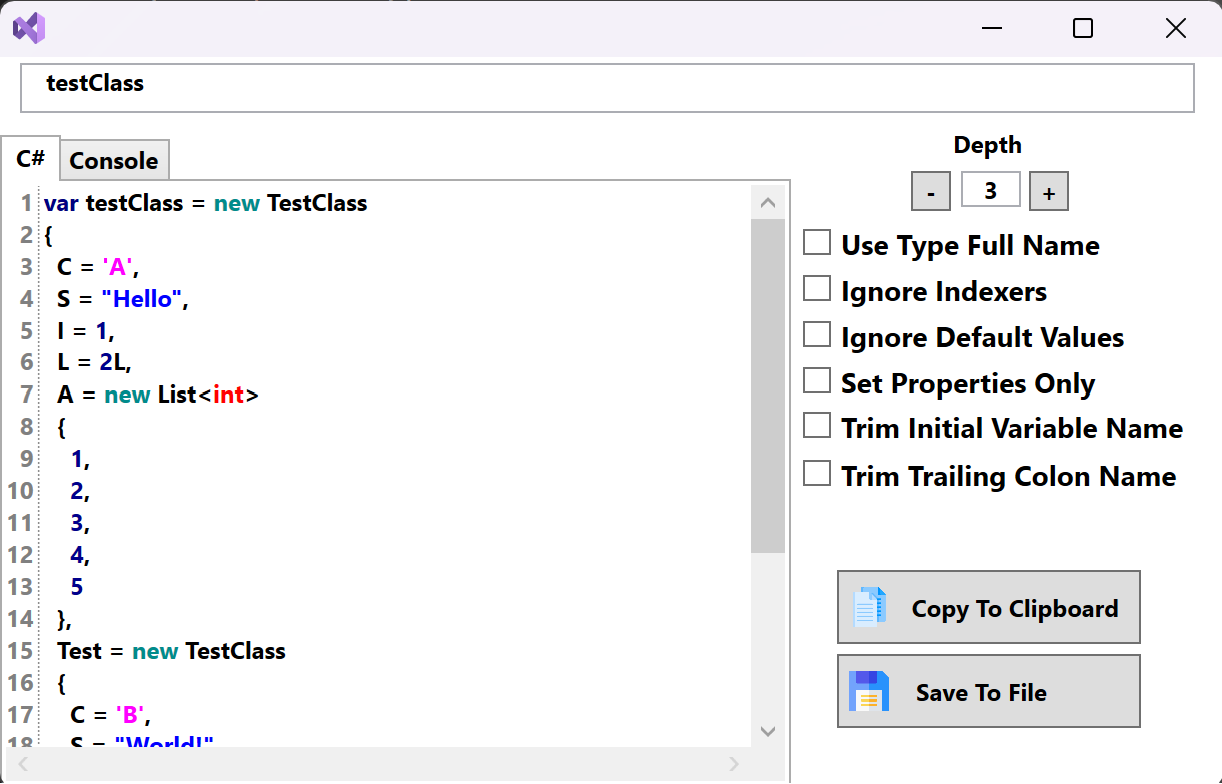
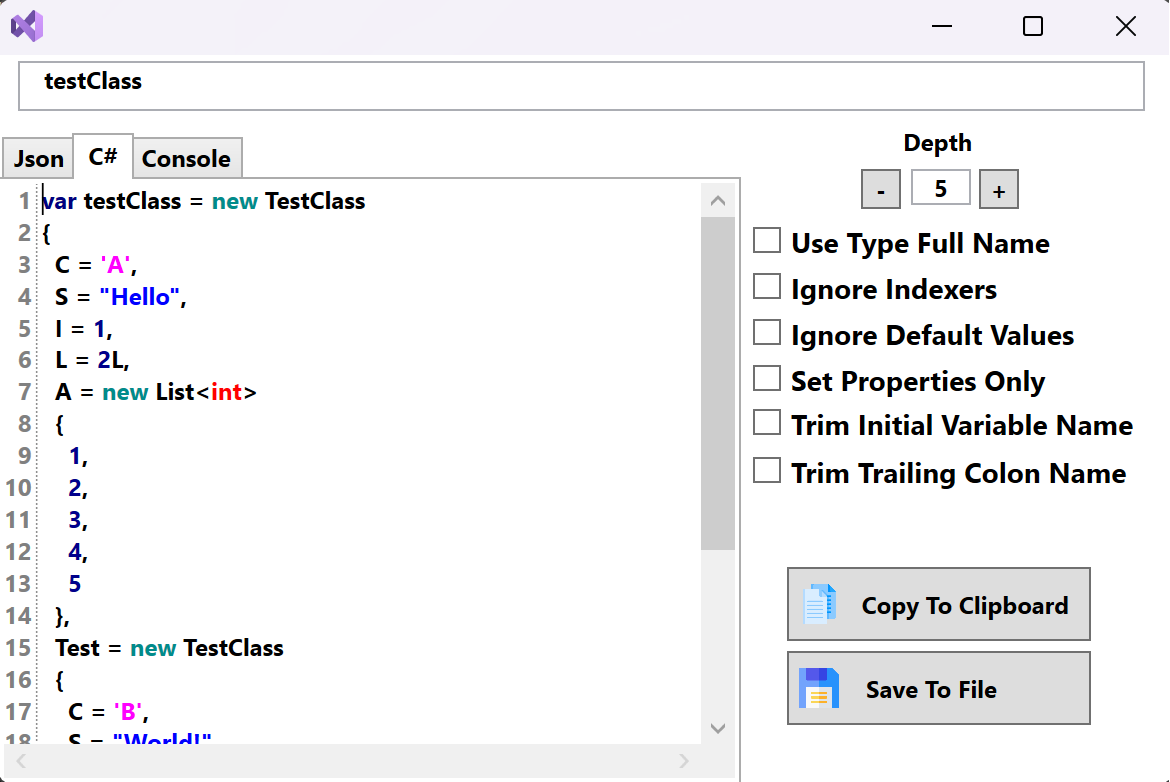
Small fixes

diff --git a/src/Dialogs/ExportDialog.xaml b/src/Dialogs/ExportDialog.xaml
@@ -68,12 +68,12 @@
             </DockPanel>
         </Button>
         <TextBox x:Name="CodeObject" Margin="10,3,14,0" Padding="10, 0, 0, 0" TextWrapping="Wrap" Text="a[0]" VerticalAlignment="Top" Height="25" KeyUp="RunDumpResult_KeyUp" FontWeight="Bold" Grid.ColumnSpan="2"/>
-        <CheckBox x:Name="UseTypeFullName" Content="Use Type Full Name" Margin="0,85,23,0" VerticalAlignment="Top" FontSize="14" HorizontalAlignment="Right" Width="188" FontWeight="Bold" IsChecked="False" Click="checkbox_Checked" Grid.ColumnSpan="2" />
-        <CheckBox x:Name="IgnoreIndexers" Content="Ignore Indexers" Margin="0,108,23,0" VerticalAlignment="Top" FontSize="14" HorizontalAlignment="Right" Width="188" FontWeight="Bold" IsChecked="False" Click="checkbox_Checked" Grid.ColumnSpan="2" />
-        <CheckBox x:Name="IgnoreDefaultValues" Content="Ignore Default Values" Margin="0,131,23,0" VerticalAlignment="Top" FontSize="14" HorizontalAlignment="Right" Width="188" FontWeight="Bold" IsChecked="False" Click="checkbox_Checked" Grid.ColumnSpan="2" />
-        <CheckBox x:Name="SetPropertiesOnly" Content="Set Properties Only" Margin="0,154,23,0" VerticalAlignment="Top" FontSize="14" HorizontalAlignment="Right" Width="188" FontWeight="Bold" IsChecked="False" Click="checkbox_Checked" Grid.ColumnSpan="2" />
-        <CheckBox x:Name="TrimInitialVariableName" Content="Trim Initial Variable Name" Margin="0,176,7,0" VerticalAlignment="Top" FontSize="14" FontWeight="Bold" IsChecked="False" Click="checkbox_Checked" HorizontalAlignment="Right" Width="204" Grid.ColumnSpan="2" />
-        <CheckBox x:Name="TrimTrailingColonName" Content="Trim Trailing Colon Name" Margin="0,200,7,0" VerticalAlignment="Top" FontSize="14" HorizontalAlignment="Right" Width="204" FontWeight="Bold" IsChecked="False" Click="checkbox_Checked" Grid.ColumnSpan="2" />
+        <CheckBox x:Name="UseTypeFullName" Content="Use Type Full Name" Margin="0,85,23,0" VerticalAlignment="Top" FontSize="14" HorizontalAlignment="Right" Width="188" FontWeight="Bold" IsChecked="False" Click="Checkbox_Checked" Grid.ColumnSpan="2" />
+        <CheckBox x:Name="IgnoreIndexers" Content="Ignore Indexers" Margin="0,108,23,0" VerticalAlignment="Top" FontSize="14" HorizontalAlignment="Right" Width="188" FontWeight="Bold" IsChecked="False" Click="Checkbox_Checked" Grid.ColumnSpan="2" />
+        <CheckBox x:Name="IgnoreDefaultValues" Content="Ignore Default Values" Margin="0,131,23,0" VerticalAlignment="Top" FontSize="14" HorizontalAlignment="Right" Width="188" FontWeight="Bold" IsChecked="False" Click="Checkbox_Checked" Grid.ColumnSpan="2" />
+        <CheckBox x:Name="SetPropertiesOnly" Content="Set Properties Only" Margin="0,154,23,0" VerticalAlignment="Top" FontSize="14" HorizontalAlignment="Right" Width="188" FontWeight="Bold" IsChecked="False" Click="Checkbox_Checked" Grid.ColumnSpan="2" />
+        <CheckBox x:Name="TrimInitialVariableName" Content="Trim Initial Variable Name" Margin="0,176,7,0" VerticalAlignment="Top" FontSize="14" FontWeight="Bold" IsChecked="False" Click="Checkbox_Checked" HorizontalAlignment="Right" Width="204" Grid.ColumnSpan="2" />
+        <CheckBox x:Name="TrimTrailingColonName" Content="Trim Trailing Colon Name" Margin="0,200,7,0" VerticalAlignment="Top" FontSize="14" HorizontalAlignment="Right" Width="204" FontWeight="Bold" IsChecked="False" Click="Checkbox_Checked" Grid.ColumnSpan="2" />
 
     </Grid>
 </Window>

diff --git a/src/Dialogs/ExportDialog.xaml.cs b/src/Dialogs/ExportDialog.xaml.cs
@@ -84,7 +84,7 @@ namespace DebugHelper.Dialogs
 
         private string GetExpressionJsonString()
         {
-            return $"System.Text.Json.JsonSerializer.Serialize({_objectName}, new System.Text.Json.JsonSerializerOptions() {{MaxDepth = {_maxDepthValue}, WriteIndented = true}})";
+            return $"System.Text.Json.JsonSerializer.Serialize({_objectName}, new System.Text.Json.JsonSerializerOptions() {{MaxDepth = {(_maxDepthValue < 1 ? _maxDepthValue : 1)}, WriteIndented = true}})";
         }
 
         private void Button_Dec_Click(object sender, RoutedEventArgs e)
@@ -164,7 +164,7 @@ namespace DebugHelper.Dialogs
             GetDumpResult();
         }
 
-        private void checkbox_Checked(object sender, RoutedEventArgs e)
+        private void Checkbox_Checked(object sender, RoutedEventArgs e)
         {
             GetDumpResult();
         }

diff --git a/README.md b/README.md
@@ -21,6 +21,9 @@ DebugHelper is a Visual Studio extension designed to improve your debugging expe
 # Search in an object:
 <img src="https://raw.githubusercontent.com/flash2048/DebugHelper/main/assets/Search.png" />
 
+# Export as a Json:
+<img src="https://raw.githubusercontent.com/flash2048/DebugHelper/main/assets/ExportJson.png" />
+
 # Export as a C# code:
 <img src="https://raw.githubusercontent.com/flash2048/DebugHelper/main/assets/ExportCSharp.png" />
 
